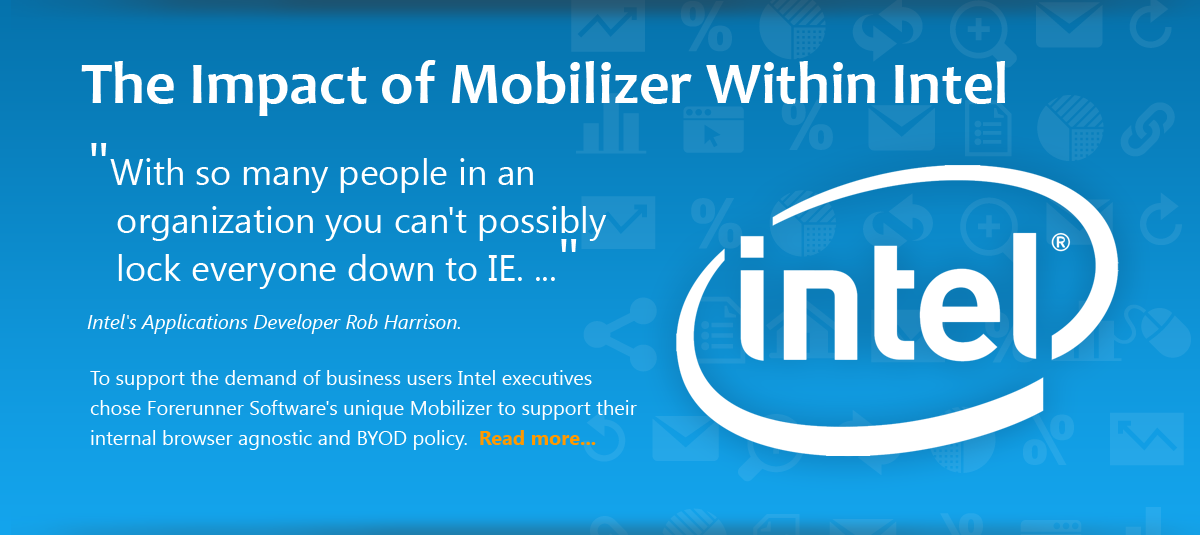
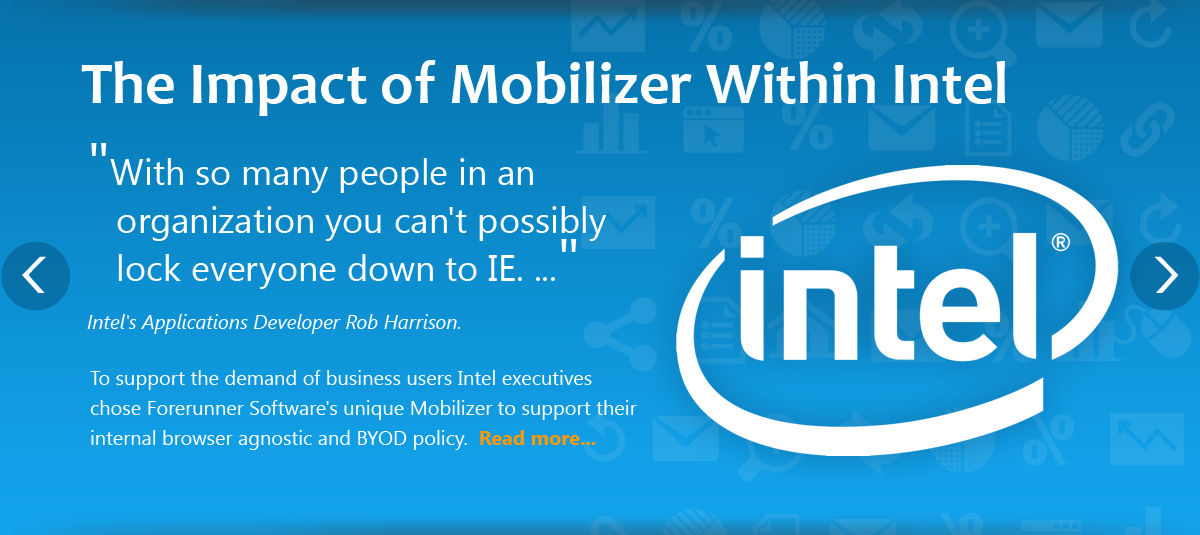
Update Website to latest style

Changed region(s): [[0.925, 0.4486, 1.0, 0.5981], [0.0, 0.4486, 0.0617, 0.5981]]

diff --git a/ForerunnerSW/ForerunnerSW/Content/Site.css b/ForerunnerSW/ForerunnerSW/Content/Site.css
@@ -6,7 +6,7 @@ a:hover {text-decoration:none; cursor:pointer;color:#28b2e0}
 img {border:none}
 body {font-family:'Segoe UI',Arial, Helvetica, sans-serif; color: #333333; background-color: #fff;  margin:0;padding:0;}
 input{-webkit-border-radius: 3px;-moz-border-radius: 3px;border-radius: 3px;padding:5px;font-family:'Segoe UI'}
-.Rounded {-webkit-border-radius: 3px;-moz-border-radius: 3px;border-radius: 3px;}
+.Rounded {-webkit-border-radius: 2px;-moz-border-radius: 2px;border-radius: 2px;}
 .Center{ margin: 0 auto;}
 .InlineBlock{display:inline-block;}
 .TableCell{display:table-cell;}
@@ -14,6 +14,8 @@ input{-webkit-border-radius: 3px;-moz-border-radius: 3px;border-radius: 3px;padd
 .HeaderFont{font-family:Candara,Arial, Helvetica, sans-serif}
 .DetailFont{font-family:'Segoe UI',Arial, Helvetica, sans-serif}
 .BlueBackgrouud{background-image:url(img/bkg_tile_slide.png);background-repeat:repeat;}
+.PageHeader{background-image:url(img/SectionBanner_Tile.png);background-repeat:repeat;}
+.PageHeaderTitle{color:white;font-family:Candara;font-size:100px;}
 .GreyBackgrouud{background-color:#F0F0F0}
 .OrangeBackground{background-color:#ff6600;}
 .SectionHeader{font-size:52px;color:#087cb9;text-align:center;}
@@ -36,7 +38,7 @@ input{-webkit-border-radius: 3px;-moz-border-radius: 3px;border-radius: 3px;padd
 .SliderContainer{width: 450px; height: 409px;  }
 .SliderHeader{ text-align: left; font-size: 24pt; line-height: 1.2;}
 .SliderFullContainer{ }
-.SliderIMG{width:100%;max-width:1200px;}
+.SliderIMG{width:100%;max-width:1200px;display:block;}
 
 .HomePageRegister { }
 .FooterContent{}
@@ -70,9 +72,9 @@ input{-webkit-border-radius: 3px;-moz-border-radius: 3px;border-radius: 3px;padd
 .ForerunnerBottomBanner{background-color:#EAEAEA;}
 .ForerunnerBottomBannerContent{line-height:22px;font-size:16px;}
 
-.DownloadFormInput{height:35px;width:300px;border:1px solid #b8b8b8;margin-bottom:25px;font-size: 24px;}
-.DownloadFormInputSmall{height:45px;width:200px;  border:1px solid #b8b8b8;margin-bottom:5px;font-size: 24px;display:inline-block;}
-.DownLoadFormEmailSmall{width: 407px;display:block;}
+.DownloadFormInput{height:35px;width:300px;border:1px solid #b8b8b8;margin-bottom:25px;font-size: 22px;}
+.DownloadFormInputSmall{height:45px;width:200px; margin-bottom:5px;font-size: 22px;display:inline-block;border:none;color:#999}
+.DownLoadFormEmailSmall{width: 407px;display:block;border:none;color:#999;font-size: 22px;}
 
 .DownloadButton{background-color:#ff6600;color:white;text-align:center;font-size:16px;cursor:pointer;}
 .DownloadButtonSize{width:200px;height:36px;padding-top:7px;text-align:center;display:block;}
@@ -108,10 +110,19 @@ input{-webkit-border-radius: 3px;-moz-border-radius: 3px;border-radius: 3px;padd
 .DeveloperCheveron{vertical-align:top;}
 .DeveloperSubHeader{padding-bottom:15px;}
 
-.PricingBanner{border:1px solid black;text-align:center;margin:25px;font-size:18pt;min-height:450px;padding:15px;}
+.PricingBanner{text-align:center;margin:20px;font-size:18pt;min-height:580px;padding:15px;}
 .BuyNowButton{text-align:center;margin:auto;font-size:18pt;padding:15px;width:250px;}
 .PricingAlert{font-weight:bold;color:darkblue;}
+.PricingBannerTitle{font-family:Candara;font-size:48px;color:white;}
+.PricingBannerSubTitle{font-family:Candara;font-size:30px;color:white;}
+.PricingBannerDetail{font-family:Candara;font-size:24px;color:white;}
+.PricingBannerCost{font-family:Candara;font-size:72px;}
+.PricingOrange{color:#ff6600;}
 .PricingBanner2{text-align:center;margin-top:0px;font-size:16pt;padding:65px;}
+.PricingList{ list-style: none;padding:0; margin:0;text-align:left;color:white;}
+.PricingListItem{padding-left: 1em; text-indent: -.7em;}
+.PricingListItem:before{ content: "• "; color: #ff6600;}
+
 
 .FeatureHeader{font-weight:bold;color:darkblue;font-size:18pt;padding:15px;}
 .FeatureContent{font-size:14pt;padding:15px;}

diff --git a/ForerunnerSW/ForerunnerSW/Scripts/ForerunnerWebsite.js b/ForerunnerSW/ForerunnerSW/Scripts/ForerunnerWebsite.js
@@ -121,34 +121,21 @@ function SetupSlider() {
             controls: false,
             pager: false,
             auto: true,
-            randomStart: true
+            randomStart: true,
+            speed: 700
         });
 
     }
 
 
-    if ($("#SliderForward").length === 1)
-        $("#SliderForward").click(function () {
-            slideLeft.goToNextSlide();
-            return false;
-        });
-    if ($("#SliderBack").length === 1)
-        $("#SliderBack").click(function () {
-            slideLeft.goToPrevSlide();
-            return false;
-        });
-
-  
-    //if ($("#Slide").length > 0)
-    //    $(window).on("resize", function () { $("#Slide").hide().show(1); });
 }
 
-function NextSlide(right,left) {
-    right.goToNextSlide();
-    left.goToNextSlide();
+function NextSlide() {
+    $("#Slide").bxSlider("goToNextSlide");
+}
 
-    $(left).parent().css("height", "");
-    $(left).css("height", "");
+function PrevSlide() {
+    $("#Slide").bxSlider("goToPrevSlide");
 }
 
 var page = $("#Page").attr("data-page");
